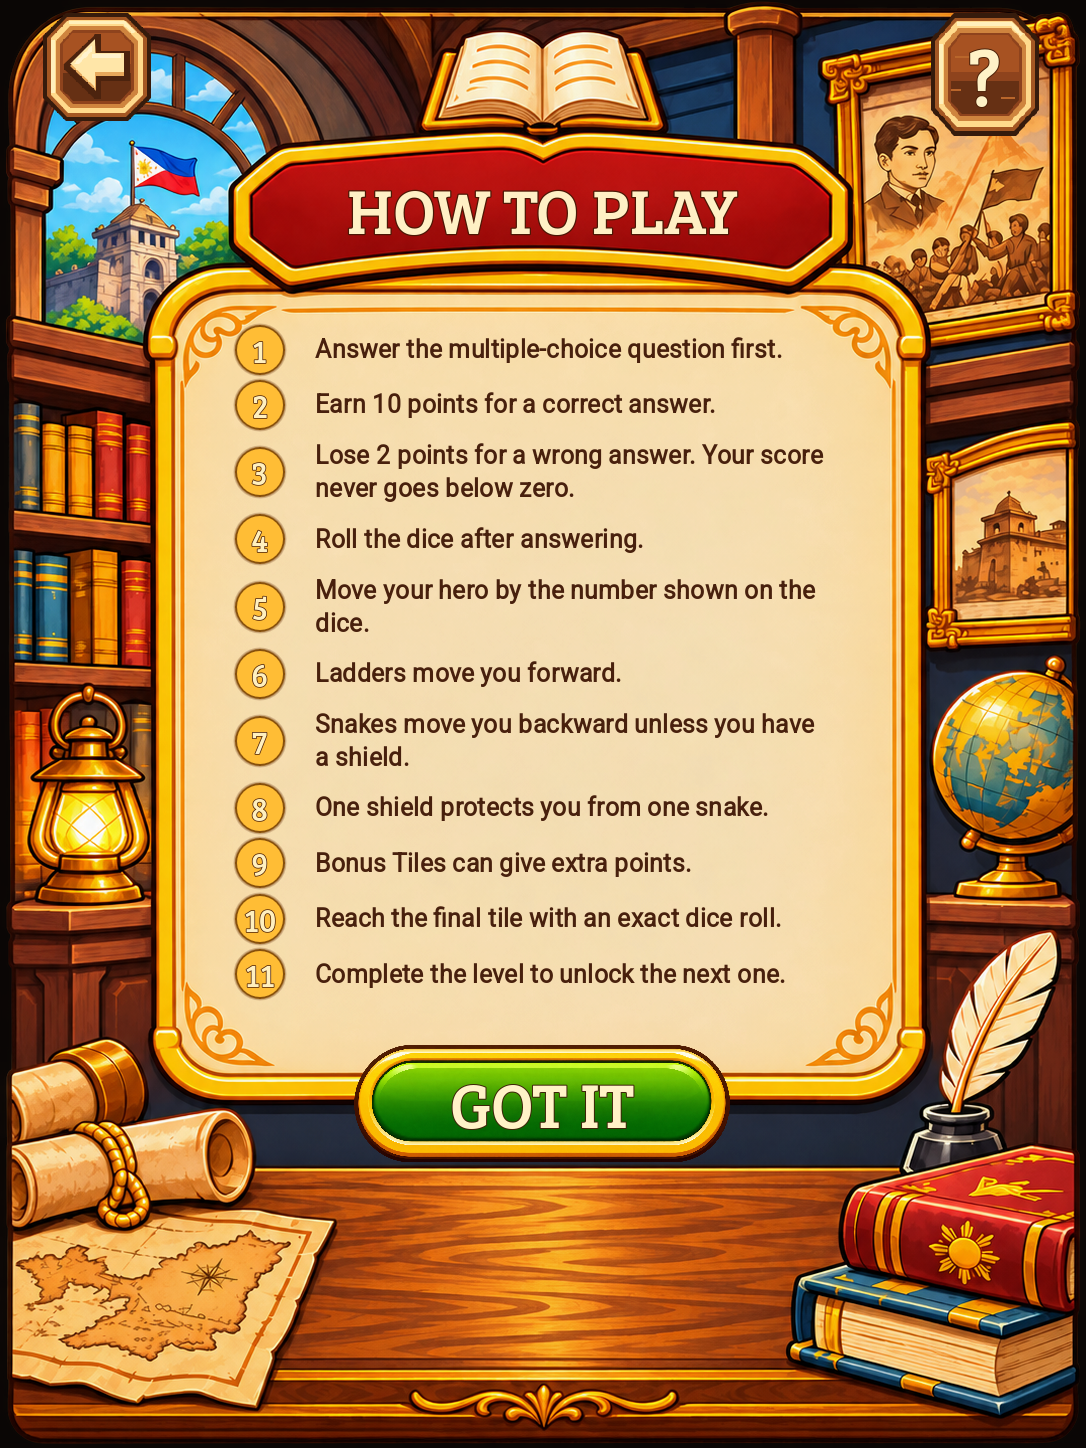
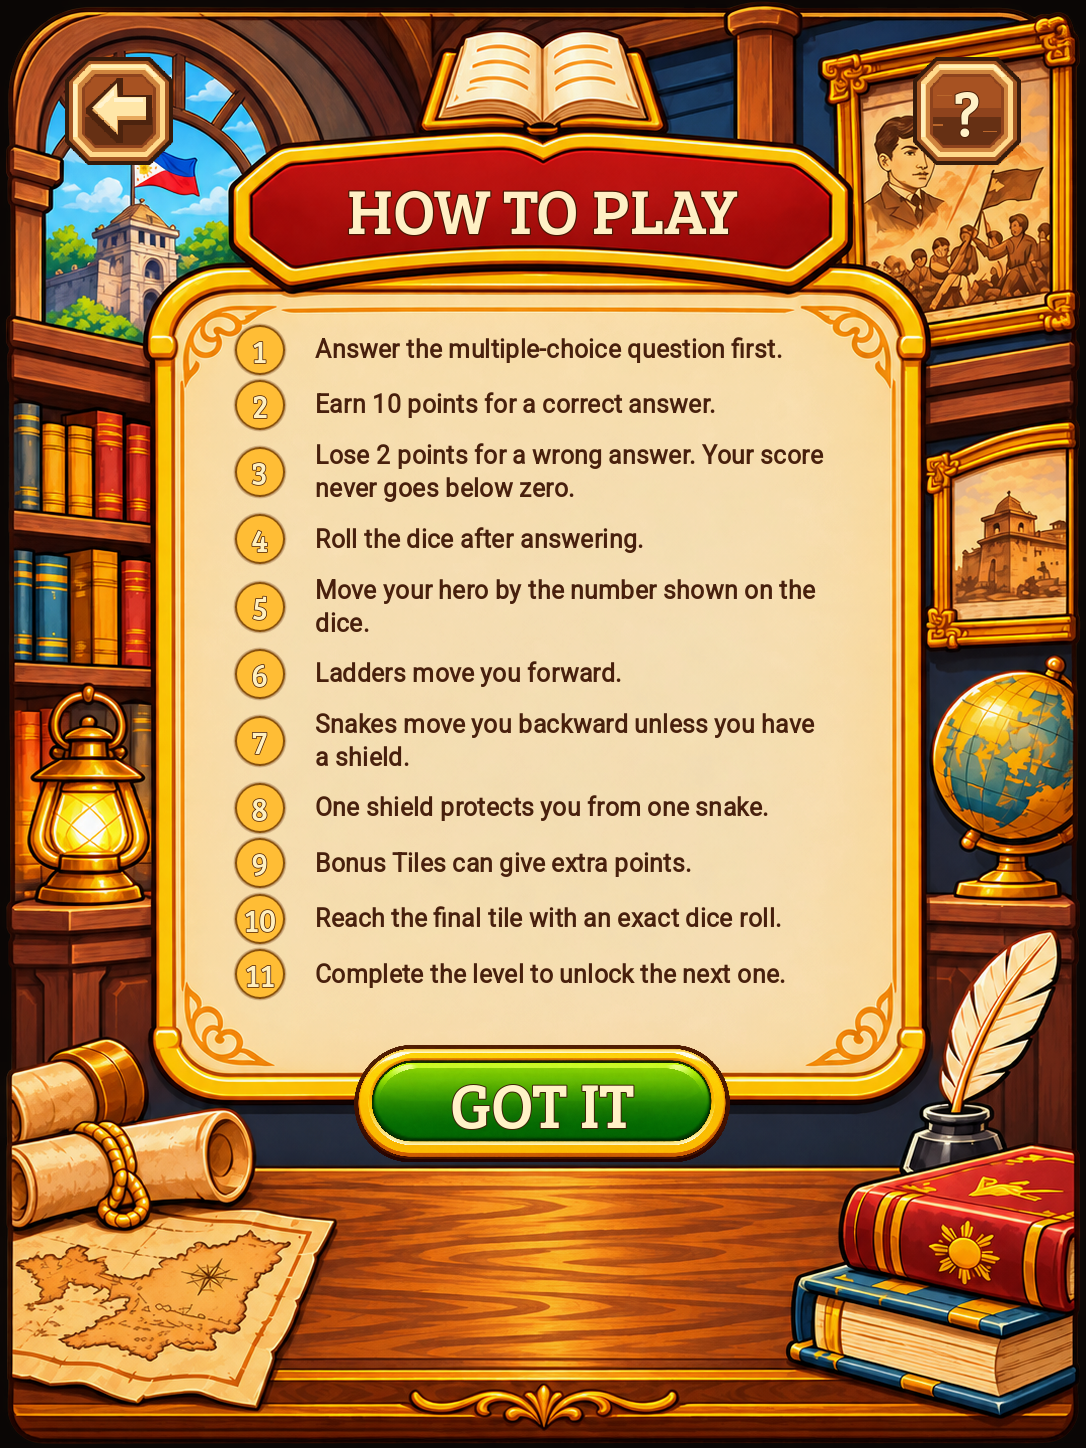
fix: keep How to Play background and navigation within bounds

Changed region(s): [[0.8204, 0.0, 0.9724, 0.1243], [0.0304, 0.0, 0.1823, 0.1243]]

diff --git a/assets/how_to_play_ui/library/README.md b/assets/how_to_play_ui/library/README.md
@@ -87,3 +87,24 @@ Use case: ui-mockup. Asset type: blank illustrated How to Play library UI backin
 ### Final got_it.png prompt
 
 Use case: ui-mockup. Asset type: a single transparent blank green confirmation-button plate for the HistoryRoll How to Play screen. Image 1 is the user's latest How to Play library reference; match the reference GOT IT button precisely in shape and materials. Create only one wide green capsule button with rounded ends, a bright green top gloss, darker green lower shading, a thick polished double gold/cream beveled border, a chunky dark-brown outline and compact lower shadow. About 3.5:1 overall. Entire green center must be completely BLANK because a native Godot Button will draw GOT IT as live text. No leaves, no laurels, no foliage, no side ornaments, no arrows, no checkmark, no text, no letters, no numbers, no other objects, no background scenery, no watermark. Entire capsule fully visible and tightly framed with minimal transparent padding. Warm polished friendly illustrated mobile game style. Actual transparent alpha outside the button silhouette.
+
+
+## Background and navigation fit - 23 November 2026
+
+- Moved the existing Back and question controls inward to (64, 56) and (912, 56) on the 1086x1448 design canvas. Their 110x110 bounds now sit on opaque artwork rather than its transparent rounded corners.
+- Reduced question lettering from 80 to 64 design pixels and applied both navigation bounds after font/style overrides. This prevents saved Editor font minimums from enlarging the question button during its first layout pass.
+- Settings HelpAspect now uses AspectRatioContainer.STRETCH_FIT (2). Both available width and height constrain the illustration, keeping the full background, title, Back and question controls visible in shorter development windows.
+- Existing library PNG artwork, all eleven rules, GOT IT, Back behavior and Settings/Level Selection entry routes are retained. No images were regenerated.
+- Refreshed preview_with_instructions.png from the actual Godot Editor-mode Settings help render.
+
+Final verification executed with Godot 4.7.1:
+- Runtime How to Play suite: 1374 passed, 0 failed; exit 0.
+- Editor preview suite: 59 passed, 0 failed; exit 0.
+- Total: 1433 passed, 0 failed.
+- Runtime renders cover Settings and Level Selection at 1024x1536, 720x1280, 1086x1448, 1080x1920, 1080x2340, 1080x2400 and 1024x1055 (short development window).
+- New checks sample background alpha underneath each navigation control, compare the button bounds, and check actual main-game control visibility after navigating from Main Menu.
+- Reviewed the phone render, complete Editor preview and actual main-game Settings help capture. Pointer tests retain question focus, Back/GOT IT closing and blocking of underlying PLAY.
+- Final logs contain no script/parse errors. Editor-mode runs still report current_window/external-editor configuration and shutdown RID/ObjectDB warnings.
+- Settings and progress SHA-256 values remain unchanged. Physical Android testing was not performed.
+
+Run the existing project, open Settings -> How to Play or Level Selection -> ?, and check both top icons. No Inspector changes are required.
